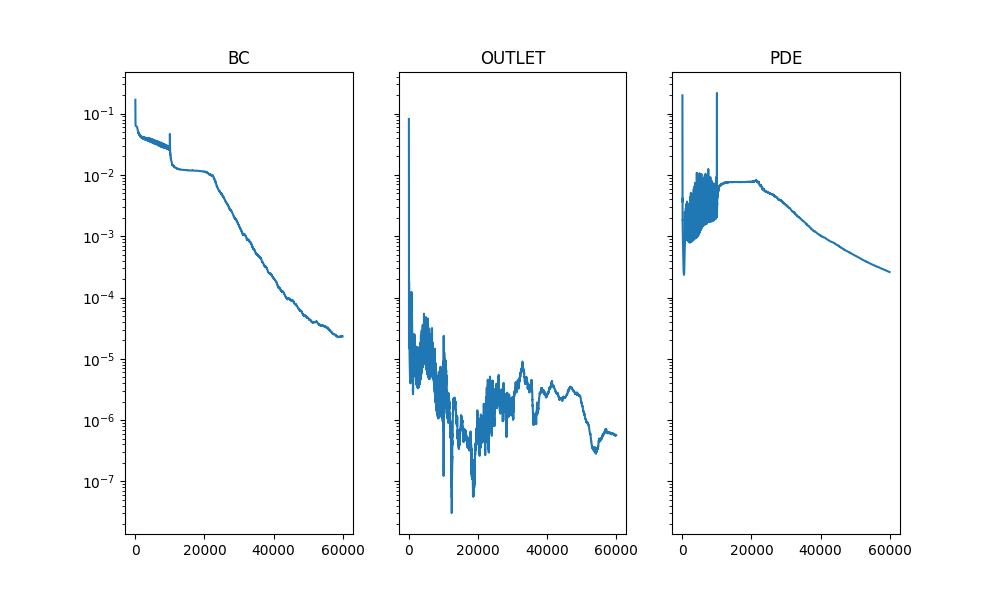
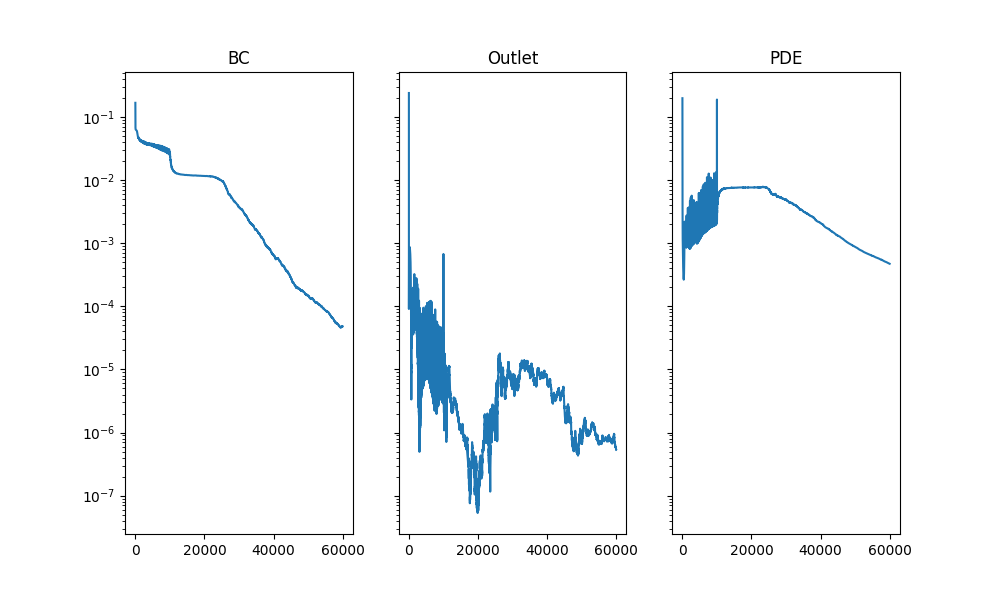
Fix typo

diff --git a/Navier-Stokes/main.py b/Navier-Stokes/main.py
@@ -126,22 +126,21 @@ class PINN:
         return u, v, p, sig_xx, sig_xy, sig_yy
 
     def bc_loss(self, xy):
-        # inlet & wall loss & cylinder
-        out = self.net(xy)
-        uv = out[:, 0:2]
-        mse_bc = torch.mean(torch.square(uv - uv_bnd), dim=0)
-        return mse_bc.sum()
+        u, v = self.predict(xy)[0:2]
+        mse_bc = torch.mean(torch.square(u - uv_bnd[:, 0:1])) + torch.mean(
+            torch.square(v - uv_bnd[:, 1:2])
+        )
+        return mse_bc
 
     def outlet_loss(self, xy):
         out = self.net(xy)
-        p = out[:, 2:3]
+        p = out[:, 1:2]
         mse_outlet = torch.mean(torch.square(p))
         return mse_outlet
 
     def pde_loss(self, xy):
         xy = xy.clone()
         xy.requires_grad = True
-
         u, v, p, sig_xx, sig_xy, sig_yy = self.predict(xy)
 
         u_out = grad(u.sum(), xy, create_graph=True)[0]
